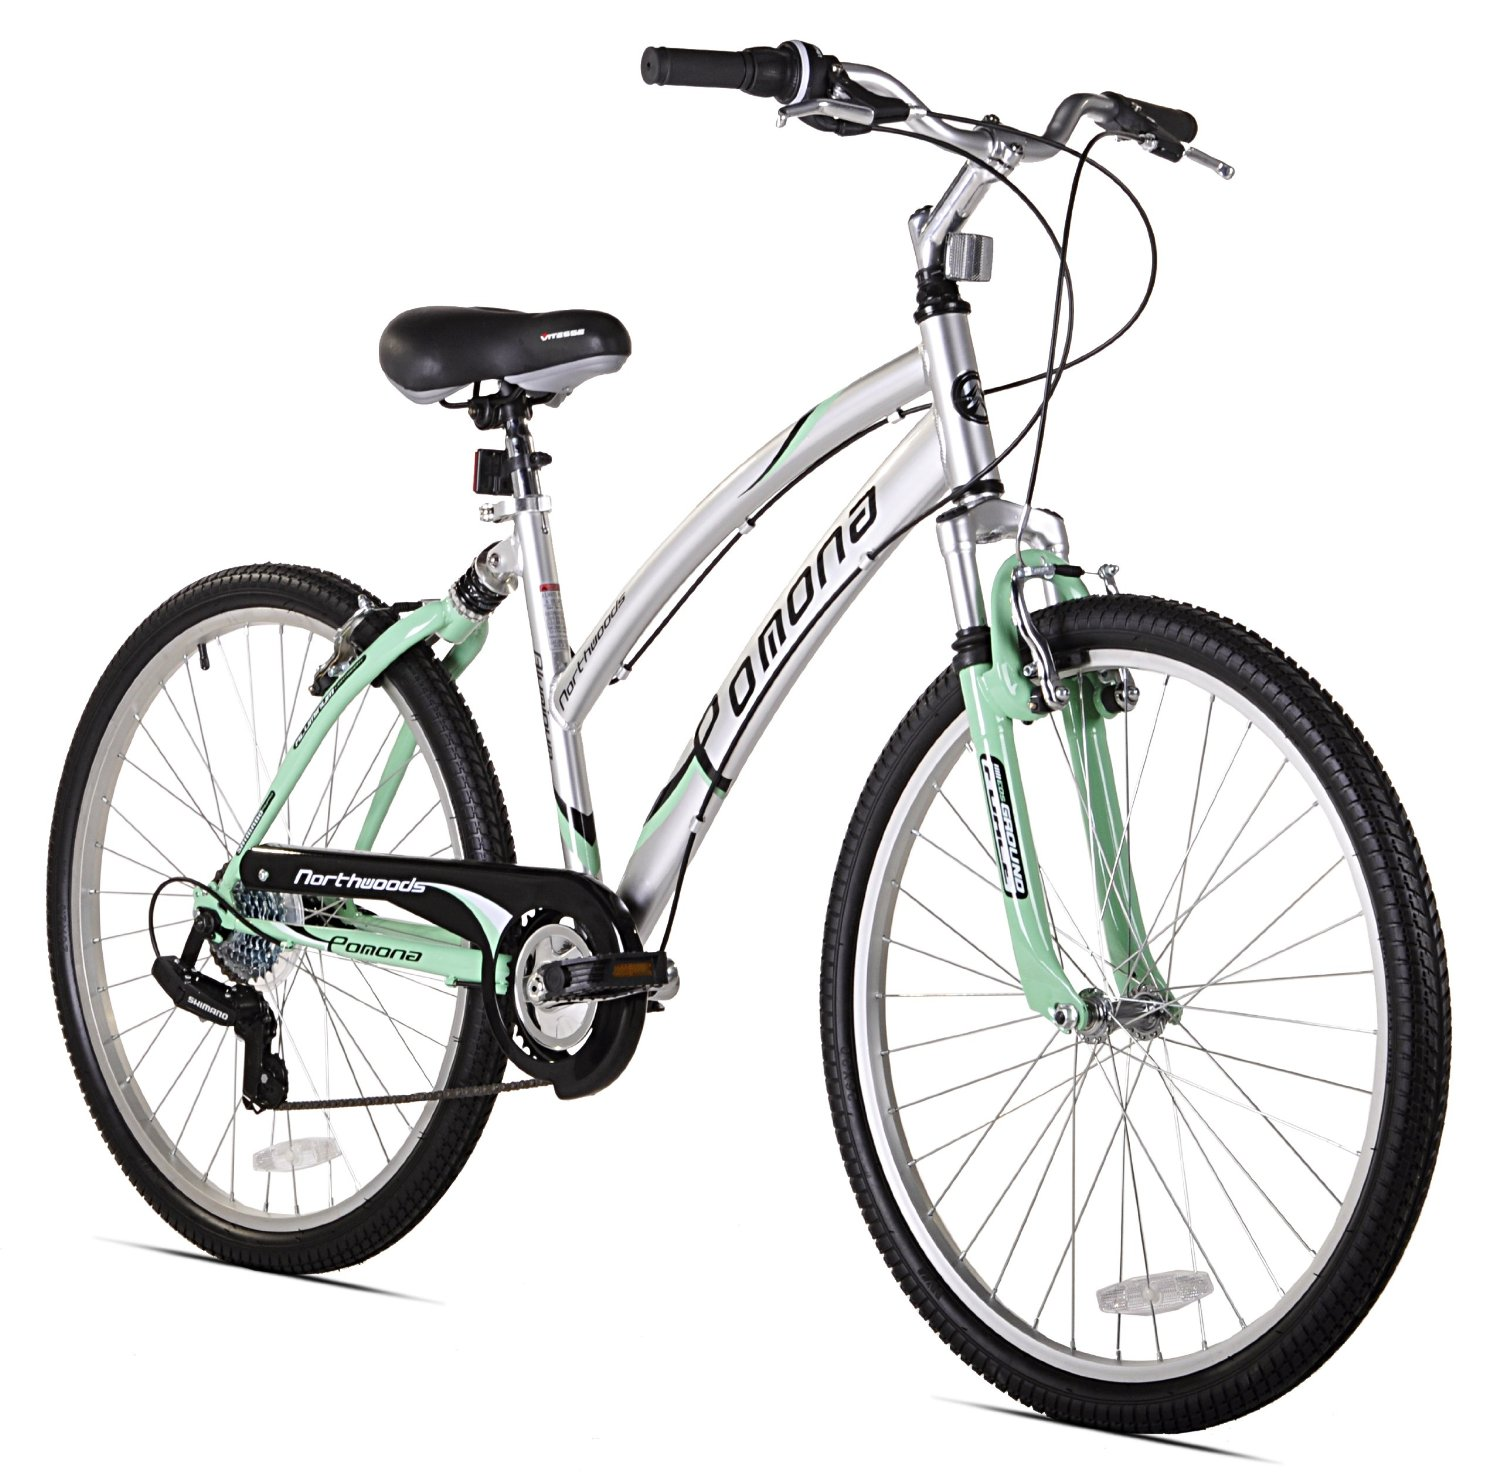
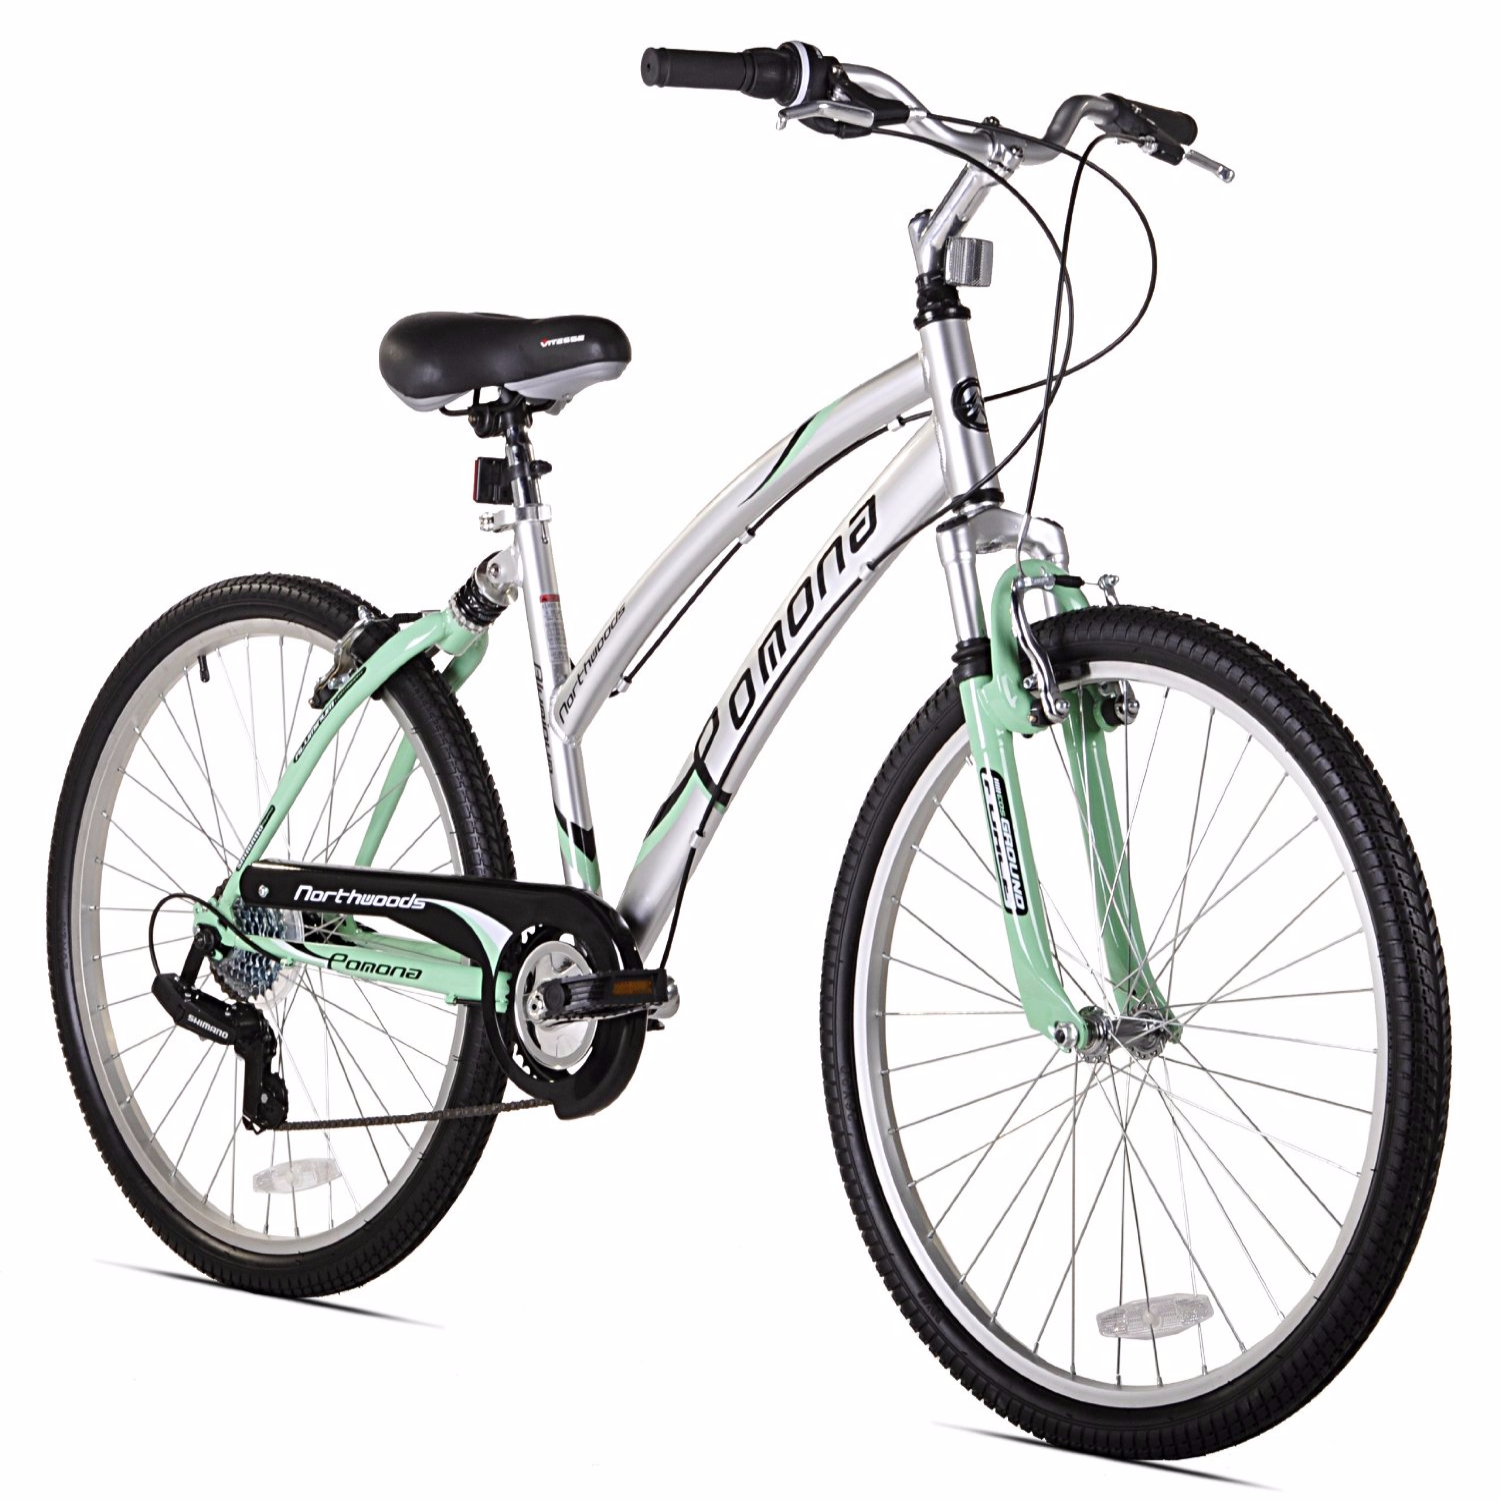
resized the images

diff --git a/templates/bikes.html b/templates/bikes.html
@@ -13,7 +13,7 @@
 					 <a href="/single"><div class="product-grid love-grid">
 						<div class="more-product"><span> </span></div>						
 						<div class="product-img b-link-stripe b-animate-go  thickbox">
-							<img src="{{product['image']}}" class="img-responsive" alt="Bicycle Image"/>
+							<img src="{{product['image']}}" class="img-responsive" height=214 width=214 alt="Bicycle Image"/>
 							<div class="b-wrapper">
 							<h4 class="b-animate b-from-left  b-delay03">							
 							<button class="btns"><span class="glyphicon glyphicon-eye-open" aria-hidden="true"></span>Quick View</button>
